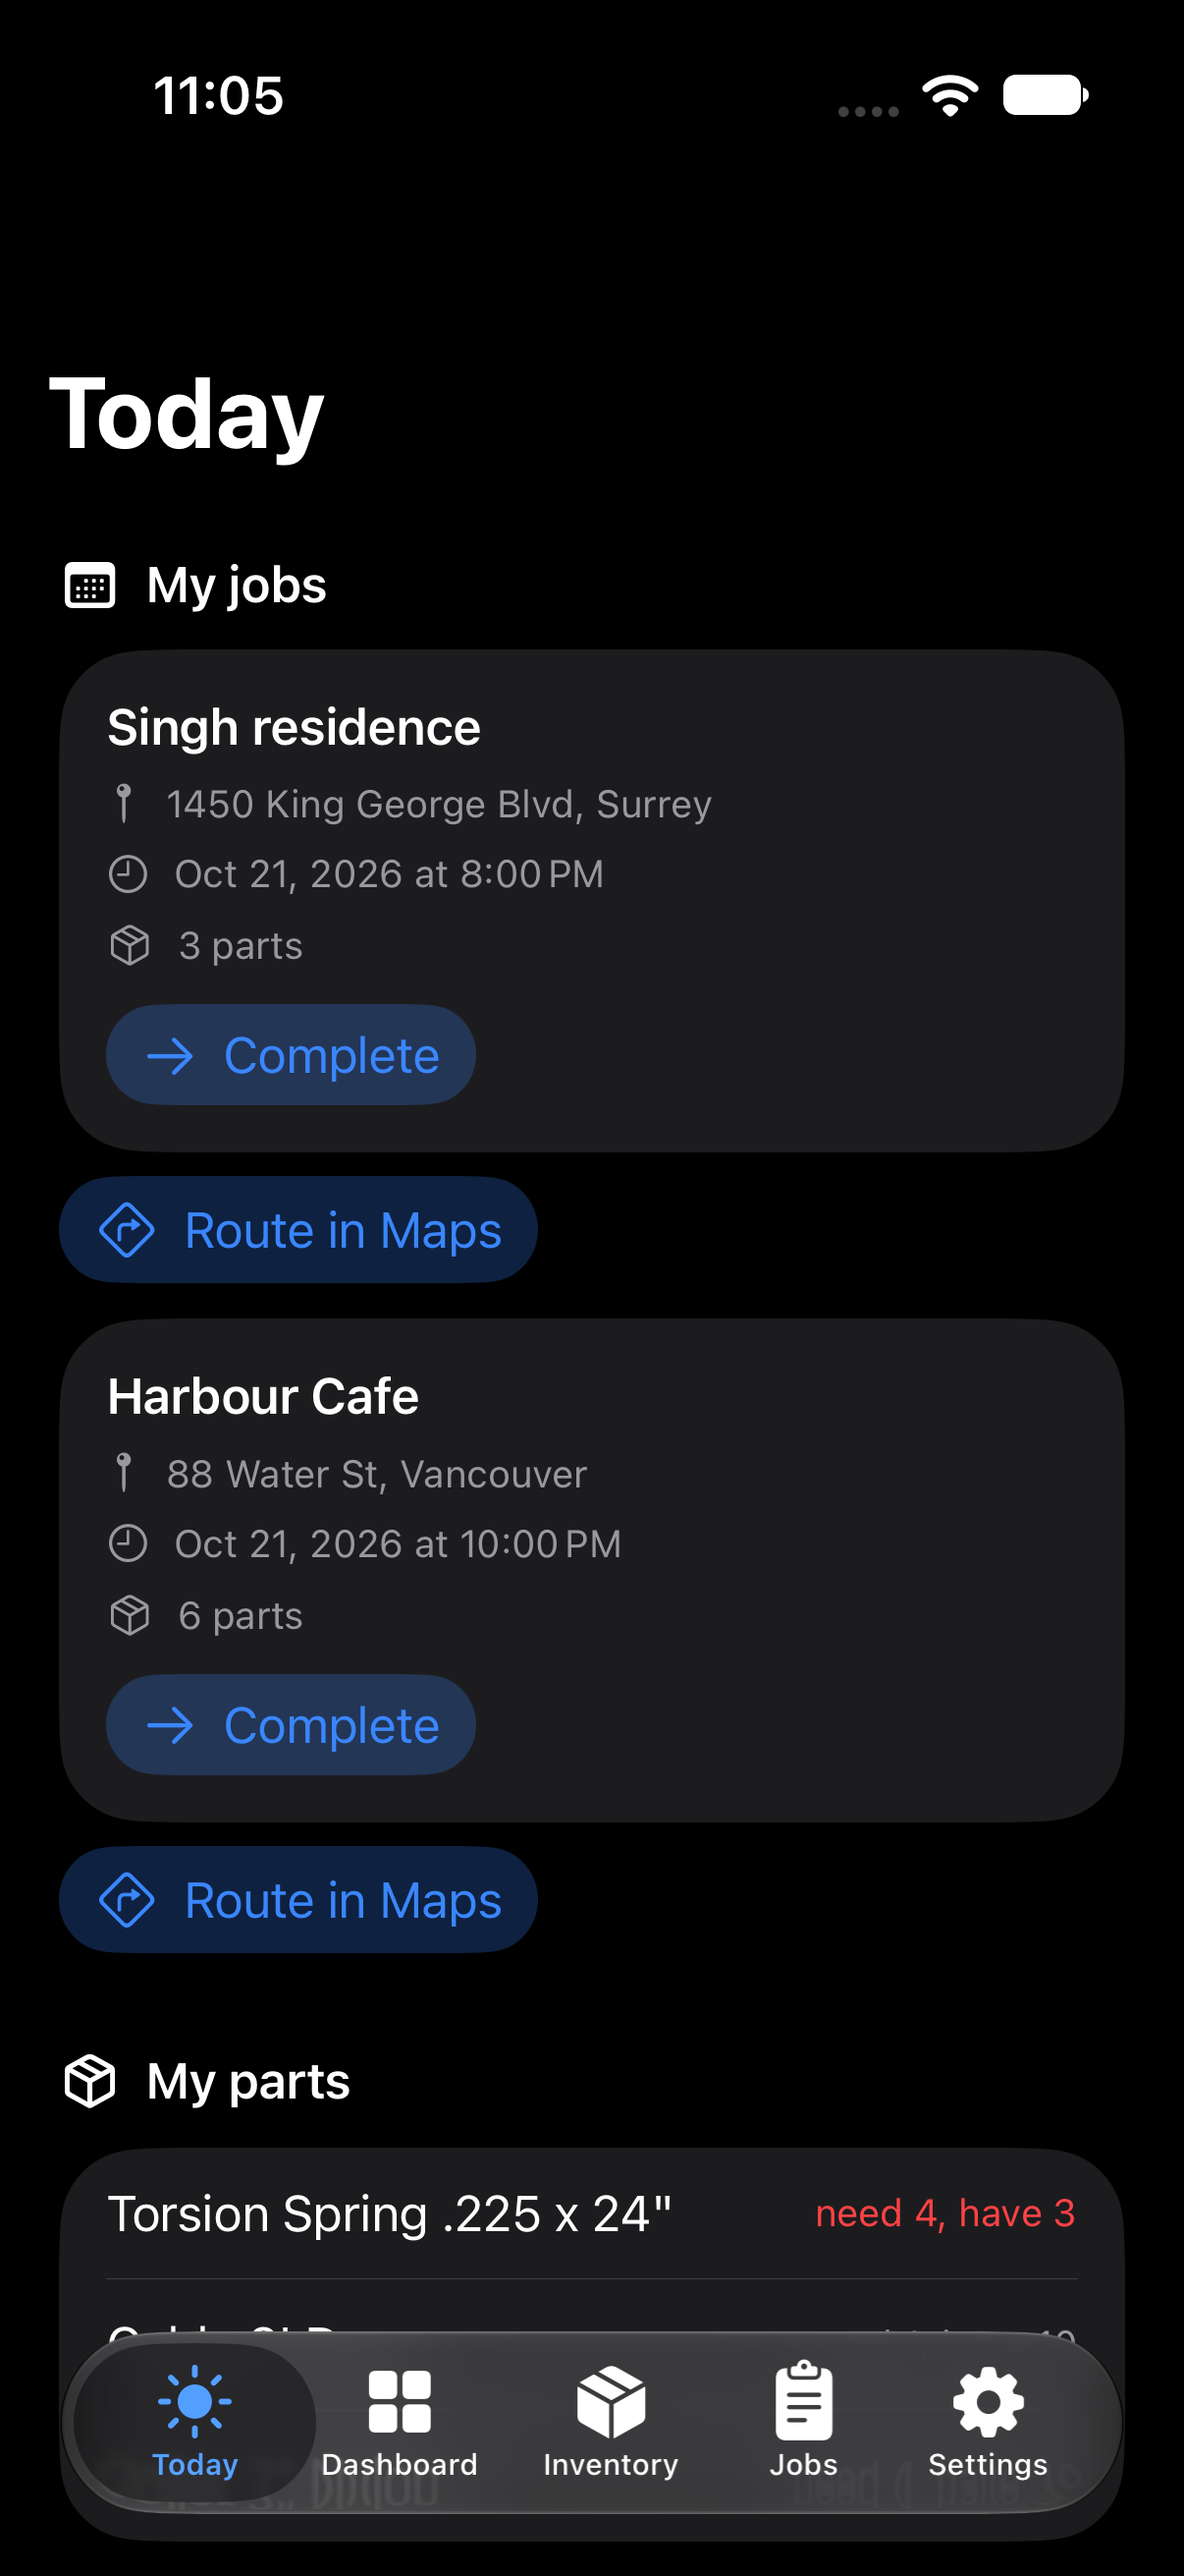
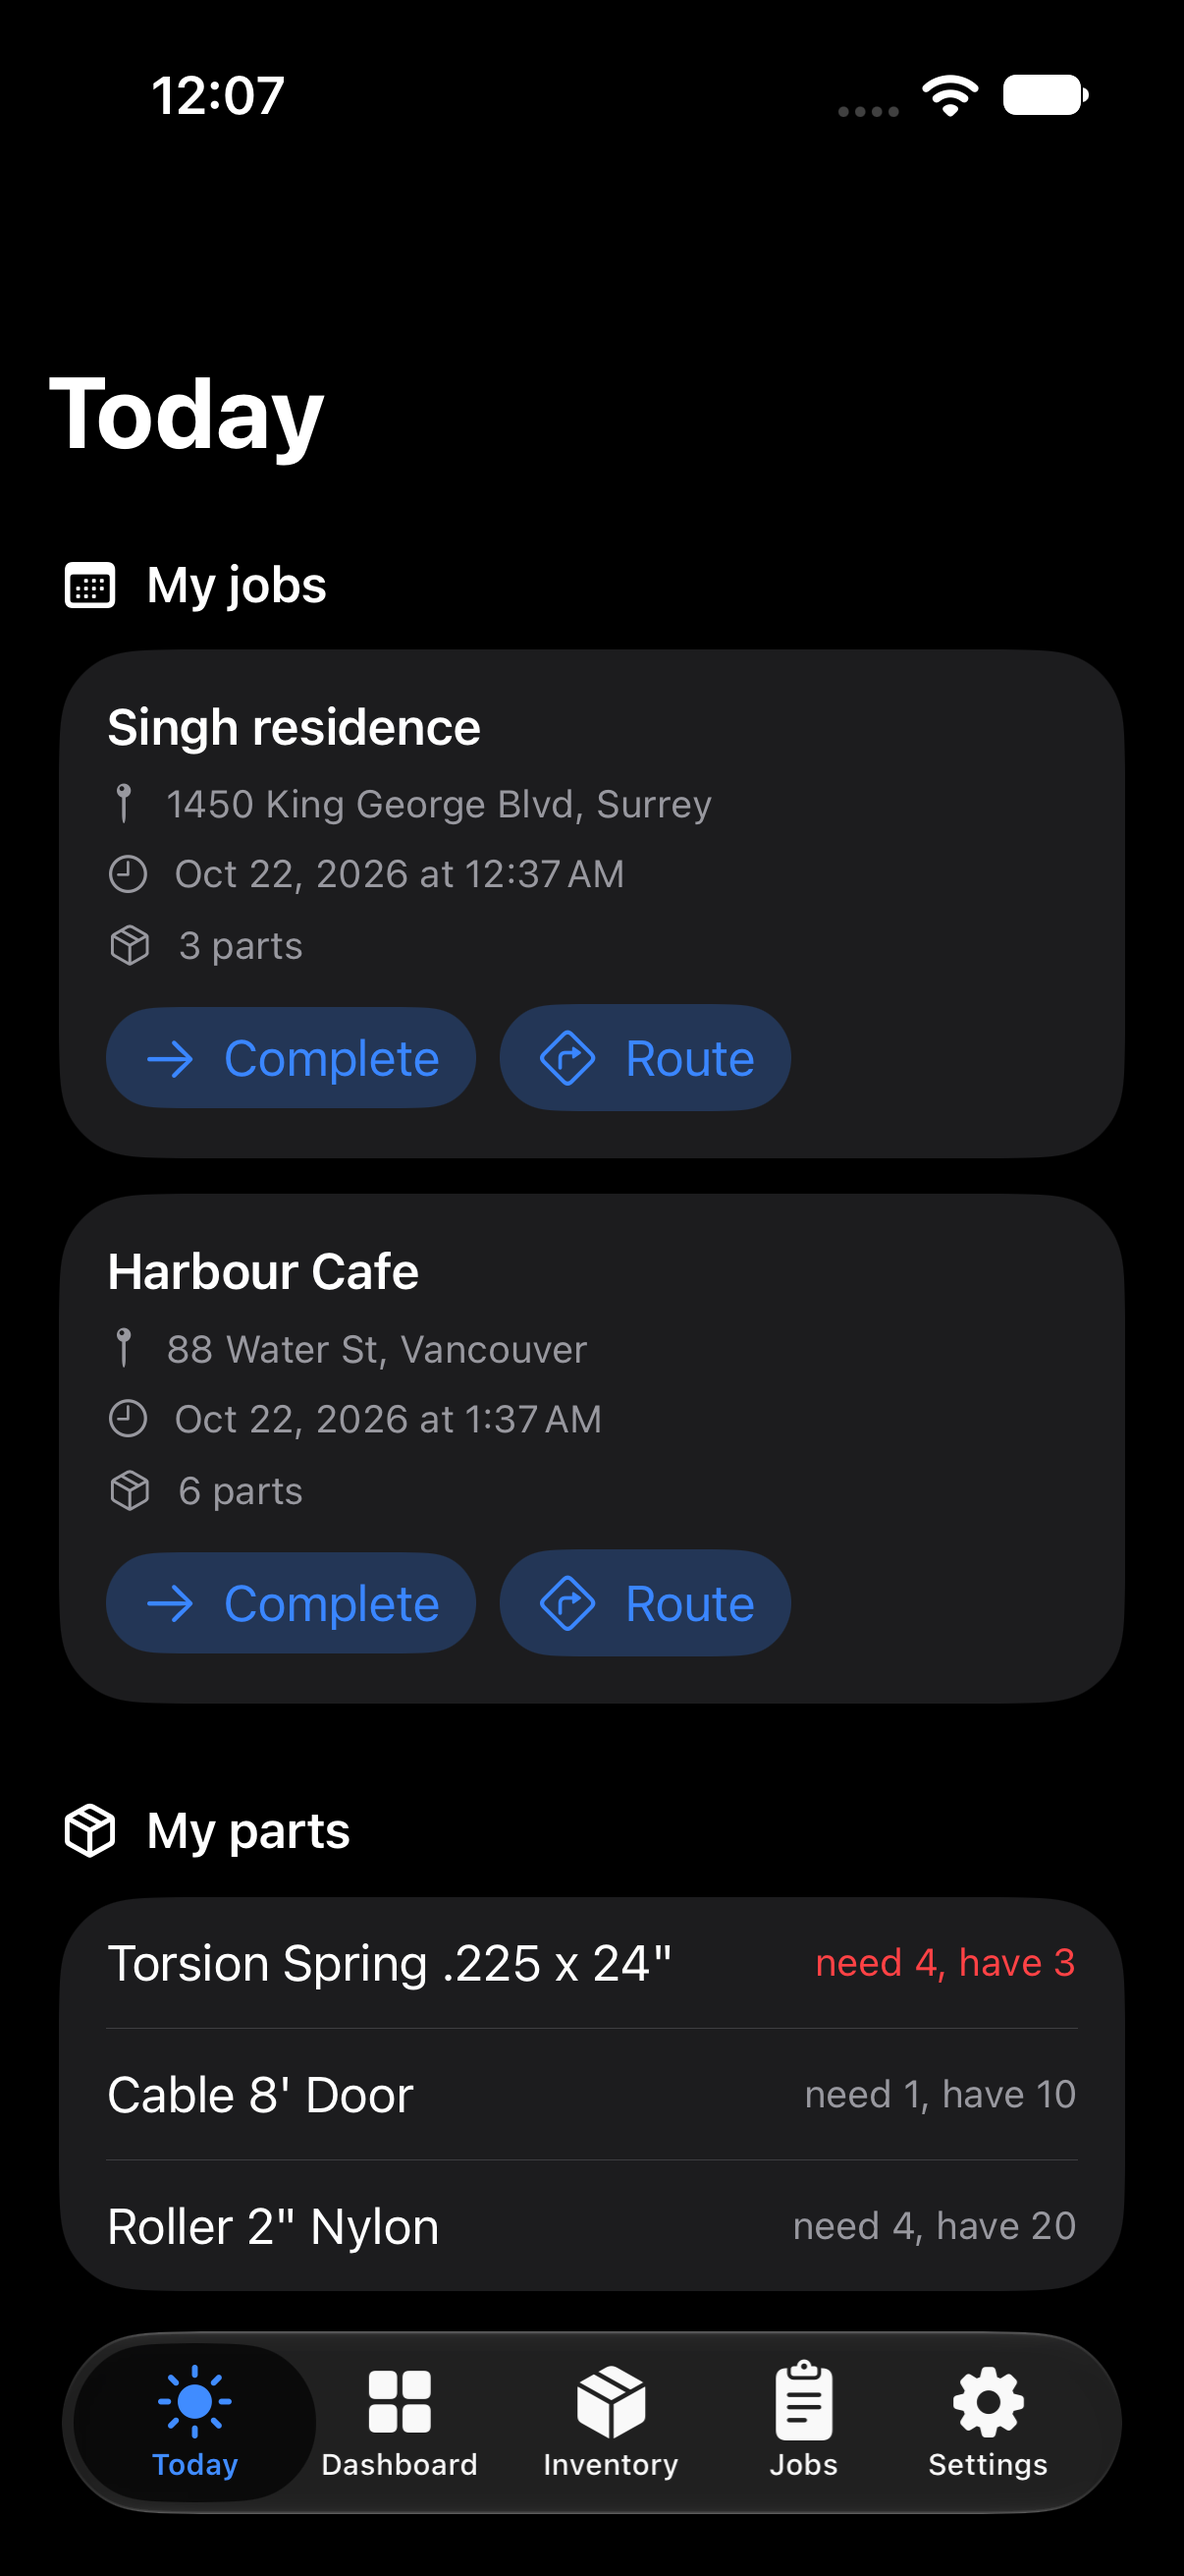
Doorstock Today: Route sits inside the job card next to Complete

diff --git a/bcgd/src/ios/BCGD/Views.swift b/bcgd/src/ios/BCGD/Views.swift
@@ -251,6 +251,7 @@ struct JobCard: View {
     @Environment(Store.self) private var store
     let job: Job
     var showsStatus = false
+    var showsRoute = false
 
     var body: some View {
         VStack(alignment: .leading, spacing: 8) {
@@ -260,12 +261,17 @@ struct JobCard: View {
             if let who = job.assignee.flatMap({ store.crewNames[$0] }) { fact("person", who) }
             if let date = job.scheduled { fact("clock", date.formatted(date: .abbreviated, time: .shortened)) }
             if !job.parts.isEmpty { fact("shippingbox", "\(job.parts.reduce(0) { $0 + $1.quantity }) parts") }
-            if let next = job.status.next {
-                Button(next.rawValue, systemImage: "arrow.right") { store.advance(job.id) }
-                    .buttonStyle(.bordered)
-                    .buttonBorderShape(.capsule)
-                    .padding(.top, 4)
+            HStack(spacing: 8) {
+                if let next = job.status.next {
+                    Button(next.rawValue, systemImage: "arrow.right") { store.advance(job.id) }
+                }
+                if showsRoute, let url = job.routeURL {
+                    Link(destination: url) { Label("Route", systemImage: "arrow.triangle.turn.up.right.diamond") }
+                }
             }
+            .buttonStyle(.bordered)
+            .buttonBorderShape(.capsule)
+            .padding(.top, 4)
         }
         .frame(maxWidth: .infinity, alignment: .leading)
         .cardBackground()

diff --git a/bcgd/src/macos/Sources/Views.swift b/bcgd/src/macos/Sources/Views.swift
@@ -251,6 +251,7 @@ struct JobCard: View {
     @Environment(Store.self) private var store
     let job: Job
     var showsStatus = false
+    var showsRoute = false
 
     var body: some View {
         VStack(alignment: .leading, spacing: 8) {
@@ -260,12 +261,17 @@ struct JobCard: View {
             if let who = job.assignee.flatMap({ store.crewNames[$0] }) { fact("person", who) }
             if let date = job.scheduled { fact("clock", date.formatted(date: .abbreviated, time: .shortened)) }
             if !job.parts.isEmpty { fact("shippingbox", "\(job.parts.reduce(0) { $0 + $1.quantity }) parts") }
-            if let next = job.status.next {
-                Button(next.rawValue, systemImage: "arrow.right") { store.advance(job.id) }
-                    .buttonStyle(.bordered)
-                    .buttonBorderShape(.capsule)
-                    .padding(.top, 4)
+            HStack(spacing: 8) {
+                if let next = job.status.next {
+                    Button(next.rawValue, systemImage: "arrow.right") { store.advance(job.id) }
+                }
+                if showsRoute, let url = job.routeURL {
+                    Link(destination: url) { Label("Route", systemImage: "arrow.triangle.turn.up.right.diamond") }
+                }
             }
+            .buttonStyle(.bordered)
+            .buttonBorderShape(.capsule)
+            .padding(.top, 4)
         }
         .frame(maxWidth: .infinity, alignment: .leading)
         .cardBackground()

diff --git a/bcgd/src/ios/BCGD/Today.swift b/bcgd/src/ios/BCGD/Today.swift
@@ -14,14 +14,7 @@ struct TodayView: View {
                         } else {
                             LazyVGrid(columns: Grid.cards, spacing: 12) {
                                 ForEach(store.todayRoute) { job in
-                                    VStack(alignment: .leading, spacing: 8) {
-                                        NavigationLink(value: job.id) { JobCard(job: job) }.buttonStyle(.plain)
-                                        if let url = job.routeURL {
-                                            Link(destination: url) { Label("Route in Maps", systemImage: "arrow.triangle.turn.up.right.diamond") }
-                                                .buttonStyle(.bordered)
-                                                .buttonBorderShape(.capsule)
-                                        }
-                                    }
+                                    NavigationLink(value: job.id) { JobCard(job: job, showsRoute: true) }.buttonStyle(.plain)
                                 }
                             }
                         }

diff --git a/bcgd/src/macos/Sources/Today.swift b/bcgd/src/macos/Sources/Today.swift
@@ -14,14 +14,7 @@ struct TodayView: View {
                         } else {
                             LazyVGrid(columns: Grid.cards, spacing: 12) {
                                 ForEach(store.todayRoute) { job in
-                                    VStack(alignment: .leading, spacing: 8) {
-                                        NavigationLink(value: job.id) { JobCard(job: job) }.buttonStyle(.plain)
-                                        if let url = job.routeURL {
-                                            Link(destination: url) { Label("Route in Maps", systemImage: "arrow.triangle.turn.up.right.diamond") }
-                                                .buttonStyle(.bordered)
-                                                .buttonBorderShape(.capsule)
-                                        }
-                                    }
+                                    NavigationLink(value: job.id) { JobCard(job: job, showsRoute: true) }.buttonStyle(.plain)
                                 }
                             }
                         }
